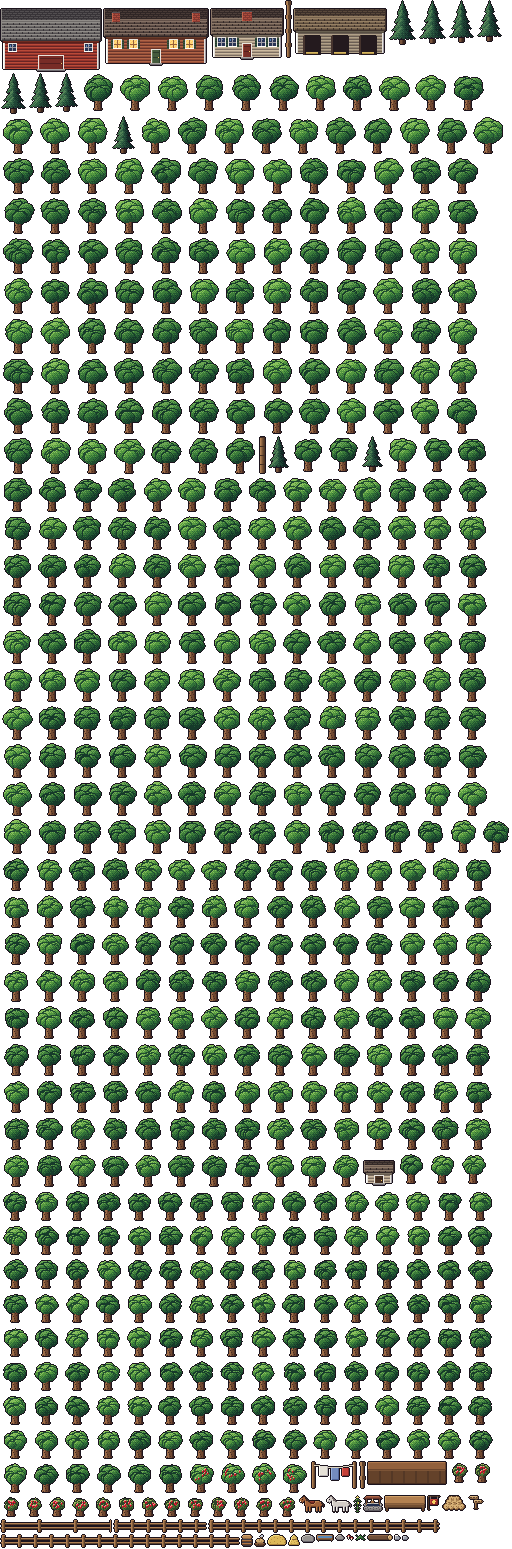
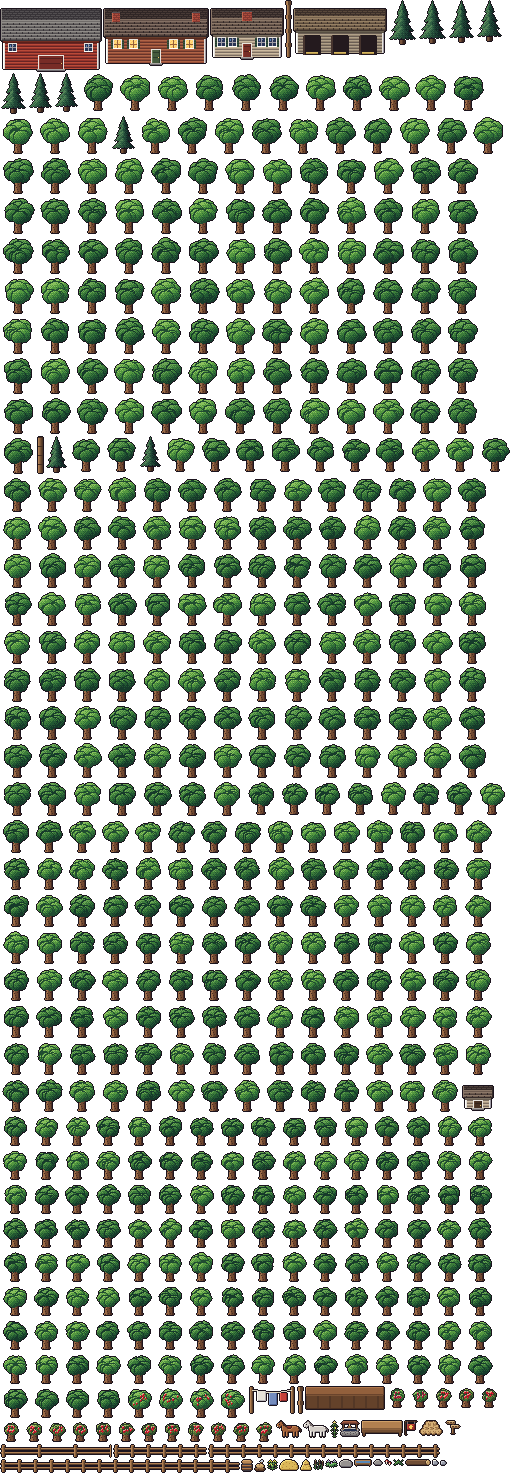
Add Heron Pond, the Liberty Tea quest and quest markers
- A narrow trail turns west off the middle of the wood path to Heron Pond,
  a clearing with cattails, wild mint, loosestrife and raspberry brambles.
  The pond uses its own random seed so the rest of the forest is unchanged.
- Once the wheat mystery is solved, Hannah asks for liberty tea herbs.
  Picking each herb adds a historical note; Jonah gives directions.
- A small gold "!" marks where a quest can be started: the wheat first,
  then Hannah after the wheat dialog is finished.

diff --git a/index.html b/index.html
@@ -154,6 +154,11 @@ canvas { display: block; width: 100%; height: 100%; image-rendering: pixelated; 
     pumpkins: { name: null, lines: [['Pumpkins and squash, fattening on the vine.']] },
     creek: { name: null, lines: [['The creek runs quick and cold over the stones.']] },
     log: { name: null, lines: [['A fallen oak, soft with moss. Something has been digging beneath it.']] },
+    pond: { name: null, lines: [['A still pond ringed with cattails. A heron lifts off the far bank and flaps away over the trees.'],
+      ['Dragonflies skim the lily pads. Something plops into the water by the reeds.']] },
+    herb_loosestrife: { name: null, lines: [['Slender stalks with leaves in fours, dotted with little yellow star flowers.']] },
+    herb_mint: { name: null, lines: [['Wild mint grows thick in the wet ground. It smells sharp and clean when you brush it.']] },
+    herb_raspberry: { name: null, lines: [['A raspberry bramble. The berries are long gone, but the leaves are thick and green.']] },
     signpost: { name: null, lines: [['West: Concord, 4 miles. East: the Boston road.']] },
     tavern_sign: { name: null, lines: [['THE PLOUGH & HARROW. A painted tankard swings from the bracket.']] },
     tavern_door: { name: null, lines: [] },
@@ -210,6 +215,12 @@ canvas { display: block; width: 100%; height: 100%; image-rendering: pixelated; 
     'widow:0': '"Meeting" meant Sunday worship at the meetinghouse. In New England the same building also hosted town meetings, where men voted on local affairs.',
     'widow:1': 'A "receipt" was the colonial word for a recipe.',
     'trapper:0': 'Beaver fur was prized in Europe for making felt hats. By the 1700s, trapping had made beaver scarce in much of New England.',
+    pond: 'Many ponds around Concord are "kettle ponds." They formed when big blocks of ice left behind by retreating glaciers melted in the ground. Walden Pond, about two miles south of Concord center, is the most famous.',
+    tea_boycott: 'After the Tea Act of 1773, many patriot households gave up imported tea. Boston women had already shown the way: in 1770 hundreds of them signed a pledge to drink no tea until Parliament\'s taxes were repealed.',
+    loosestrife: 'Four-leaved loosestrife, a native wildflower, gave its name to "liberty tea." Families dried the leaves and steeped them in place of the taxed tea from England.',
+    mint: 'Wild mint grows in damp ground across North America. Native peoples used it in medicines and teas, and colonists brewed it too, especially once drinking imported tea became unpatriotic.',
+    raspberry: 'Dried raspberry leaves made one of the most popular tea substitutes, and they had long been used as a home remedy.',
+    liberty_tea: 'The tea boycott gave women a central part in the resistance, since they ran the household and decided what was served. In October 1774 the Continental Congress went further, banning imports of British goods, tea included, from that December.',
     keeper: 'Taverns were the heart of colonial public life. Neighbors read newspapers aloud there, held meetings, and argued politics. Many revolutionary committees met over a mug of ale.',
   };
   const note = (text) => ['HISTORICAL NOTE', text, 'note'];
@@ -219,7 +230,7 @@ canvas { display: block; width: 100%; height: 100%; image-rendering: pixelated; 
     outdoor: [
       ['THE PLOUGH & HARROW', 140, 0, 262, 96], ['THE STABLE', 322, 0, 470, 96], ['THE CROSSROADS', 262, 70, 340, 120],
       ['THE FOOTBRIDGE', 276, 126, 318, 172], ['THE KITCHEN GARDEN', 58, 642, 160, 716], ['THE HOMESTEAD', 160, 626, 500, 762],
-      ['THE FIELDS', 30, 762, 470, 900], ['THE WOOD PATH', 120, 172, 440, 626],
+      ['THE FIELDS', 30, 762, 470, 900], ['HERON POND', 16, 346, 182, 462], ['THE WOOD PATH', 120, 172, 440, 626],
     ],
     tavern: [['THE PLOUGH & HARROW', 0, 0, 256, 192]],
   };
@@ -484,7 +495,7 @@ canvas { display: block; width: 100%; height: 100%; image-rendering: pixelated; 
     p: { x: 0, y: 0, dir: 'down', frame: 0, anim: 0, moving: false, seat: null },
     dog: { x: 0, y: 0, dir: 'down', frame: 0, anim: 0, waiting: null, stuck: 0 },
     trail: [], keys: new Set(), stick: null, chickens: [], puffs: [], smokeT: 0,
-    pence: 30, ale: 0, emptyMug: false, talkIdx: {}, quest: 0, holtNag: false,
+    pence: 30, ale: 0, emptyMug: false, talkIdx: {}, quest: 0, holtNag: false, tea: 0, herbs: [], jonahHint: false,
     dialog: null, fade: 0, fadeDir: 0, pending: null, target: null,
     region: '', toastT: 0, scale: 2, view: [320, 200], time: 0,
   };
@@ -528,6 +539,7 @@ canvas { display: block; width: 100%; height: 100%; image-rendering: pixelated; 
     S.map = st.map; S.p.x = st.x; S.p.y = st.y; S.p.dir = st.dir || 'down';
     if (snap && typeof snap.pence === 'number') { S.pence = snap.pence; S.ale = snap.ale || 0; }
     setQuest((snap && snap.quest) || 0, false);
+    if (snap && snap.tea) { S.herbs = snap.herbs || []; setTea(snap.tea, false); }
     S.dog.x = S.p.x + 14; S.dog.y = S.p.y + 2;
     if (S.map !== 'outdoor') { const d = S.maps.tavern.doors[0].spawn; S.dog.waiting = [d[0] + 14, d[1] + 4]; S.dog.x = S.dog.waiting[0]; S.dog.y = S.dog.waiting[1]; }
     const snd = W.maps.outdoor.sound;
@@ -681,7 +693,9 @@ canvas { display: block; width: 100%; height: 100%; image-rendering: pixelated; 
     for (const a of m.acts) {
       if (inR(q, a.r)) {
         if (a.id === 'tavern_door') continue;
-        return { kind: 'act', id: a.id, label: a.label, ax: (a.r[0] + a.r[2]) / 2, ay: a.r[1] - 4 };
+        const herb = a.id.startsWith('herb_') && a.id.slice(5);
+        const label = herb && (S.tea !== 1 || S.herbs.includes(herb)) ? 'LOOK' : a.label;
+        return { kind: 'act', id: a.id, label, ax: (a.r[0] + a.r[2]) / 2, ay: a.r[1] - 4 };
       }
     }
     return null;
@@ -706,16 +720,52 @@ canvas { display: block; width: 100%; height: 100%; image-rendering: pixelated; 
     'Ezra blames the barberry hedge. Go home and tell Hannah.',
     'The barberry hedge comes out before spring planting.',
   ];
+  // The task box shows one task at a time; a finished task fades out after a few seconds.
+  function showTask(text, done, announce) {
+    const q = $('quest');
+    if (!text) { q.hidden = true; return; }
+    q.hidden = false; q.classList.remove('fade');
+    $('qlabel').textContent = done ? 'TASK COMPLETE' : 'TASK';
+    $('qtext').textContent = text;
+    if (announce) toast(announce);
+    clearTimeout(showTask.t);
+    if (done) showTask.t = setTimeout(() => q.classList.add('fade'), 7000);
+  }
   function setQuest(stage, announce = true) {
     S.quest = stage;
-    const q = $('quest');
-    if (!QUEST[stage]) { q.hidden = true; return; }
-    q.hidden = false; q.classList.remove('fade');
-    $('qlabel').textContent = stage === 3 ? 'TASK COMPLETE' : 'TASK';
-    $('qtext').textContent = QUEST[stage];
-    if (announce) toast(stage === 3 ? 'TASK COMPLETE' : 'NEW TASK');
-    clearTimeout(setQuest.t);
-    if (stage === 3) setQuest.t = setTimeout(() => q.classList.add('fade'), 7000);
+    showTask(QUEST[stage], stage === 3, announce && (stage === 3 ? 'TASK COMPLETE' : 'NEW TASK'));
+  }
+  // ------------------------------------------------------------------ liberty tea
+  // Stage 0: not offered (Hannah offers it once the wheat mystery is solved). 1: gather the three herbs at Heron Pond.
+  // 2: all gathered, take them home. 3: Hannah has her tea, task done.
+  const HERBS = { loosestrife: 'loosestrife', mint: 'wild mint', raspberry: 'raspberry leaves' };
+  function teaTask() {
+    if (S.tea === 1) {
+      const left = Object.keys(HERBS).filter((k) => !S.herbs.includes(k)).map((k) => HERBS[k]);
+      return 'Gather ' + left.join(', ').replace(/, ([^,]*)$/, ' and $1') + ' at Heron Pond, west off the wood path. (' + S.herbs.length + '/3)';
+    }
+    return [null, null, 'Bring the herbs home to Hannah.', 'Hannah has her liberty tea for Thursday.'][S.tea];
+  }
+  function setTea(stage, announce = true) {
+    S.tea = stage;
+    showTask(teaTask(), stage === 3, announce && (stage === 3 ? 'TASK COMPLETE' : 'NEW TASK'));
+  }
+  function pickHerb(kind, lines) {
+    if (S.tea !== 1 || S.herbs.includes(kind)) return null;
+    return { lines, then: () => {
+      S.herbs.push(kind);
+      AUD.play('step', 'grass');
+      if (S.herbs.length === 3) setTea(2);
+      else showTask(teaTask(), false, HERBS[kind].toUpperCase() + ' ' + S.herbs.length + '/3');
+    } };
+  }
+  function questStarts() {
+    // Where a "!" marks something the player can start a task from.
+    const out = [];
+    if (S.map !== 'outdoor') return out;
+    if (S.quest === 0) { const a = M().acts.find((q) => q.id === 'wheat'); if (a) out.push({ id: 'wheat', x: a.r[0] + 34, y: a.r[1] + 18 }); }
+    if (S.quest === 3 && S.tea === 0) { const n = M().npcs.find((q) => q.id === 'wife'); if (n) out.push({ id: 'wife', x: n.x, y: n.y - 28 }); }
+    return out;
   }
   const SPECIAL = {
     wheat() {
@@ -742,7 +792,41 @@ canvas { display: block; width: 100%; height: 100%; image-rendering: pixelated; 
           ['HANNAH', 'My barberry? I make my jelly from those berries!'],
           ['HANNAH', '...Well. I\'d sooner have bread than jelly. If it must come out, it must.']], then: () => setQuest(3) };
       }
+      if (S.tea === 0) {
+        return { lines: [['HANNAH', 'Now, there\'s another thing. Widow Abbot and the Fletcher women are coming to sit with me Thursday.'],
+          ['HANNAH', 'And I\'ll not pour the King\'s tea in this house. Not while Boston harbor is shut and his soldiers stand on every corner.'],
+          ['YOU', 'Then what will you pour?'],
+          ['HANNAH', 'Liberty tea. For that I need loosestrife, wild mint and raspberry leaves.'],
+          ['HANNAH', 'Jonah says all three grow round Heron Pond. Halfway along the wood path, a little trail turns west through the trees.'],
+          note(NOTES.tea_boycott)], then: () => setTea(1) };
+      }
+      if (S.tea === 1) {
+        return { lines: [['HANNAH', S.herbs.length ? 'That\'s a start. I still want ' + teaTask().replace(/^Gather (.*) at Heron.*$/, '$1') + '.'
+          : 'Loosestrife, wild mint and raspberry leaves. Take the little trail west, halfway along the wood path.']] };
+      }
+      if (S.tea === 2) {
+        return { lines: [['HANNAH', 'Loosestrife, mint and raspberry! Let me smell. Oh, that will do very nicely.'],
+          [null, 'Hannah ties the herbs into bundles and hangs them from the beam by the hearth to dry.'],
+          ['HANNAH', 'Let the Tories in Boston keep their Bohea. Ours will be home-grown, and I\'ll say so to anyone who asks.'],
+          note(NOTES.liberty_tea)], then: () => setTea(3) };
+      }
       return null;
+    },
+    herb_loosestrife() {
+      return pickHerb('loosestrife', [[null, 'You snap off a good bundle of loosestrife stalks, leaves and little yellow flowers and all.'], note(NOTES.loosestrife)]);
+    },
+    herb_mint() {
+      return pickHerb('mint', [[null, 'You kneel in the soft mud and pick a fistful of wild mint. Your fingers smell of it for an hour.'], note(NOTES.mint)]);
+    },
+    herb_raspberry() {
+      return pickHerb('raspberry', [[null, 'You reach carefully past the thorns and strip a handful of raspberry leaves. Only one scratch.'], note(NOTES.raspberry)]);
+    },
+    trapper() {
+      if (S.tea !== 1 || S.jonahHint) return null;
+      S.jonahHint = true;
+      return { lines: [['YOU', 'Jonah, Hannah\'s sent me for tea herbs. Loosestrife, mint and raspberry. She says you know Heron Pond.'],
+        ['JONAH, A TRAPPER', 'Heron Pond? West off the wood path, about halfway. Mint grows thick in the mud on the south side.'],
+        ['JONAH, A TRAPPER', 'Raspberry canes at the west edge of the clearing. Mind the thorns.']] };
     },
     holt() {
       if (S.quest === 1) {
@@ -1083,6 +1167,17 @@ canvas { display: block; width: 100%; height: 100%; image-rendering: pixelated; 
       ctx.fillStyle = g; ctx.fillRect(0, 0, m.w, m.h);
       ctx.globalCompositeOperation = 'source-over';
     }
+    // "!" over things that start a task, unless the target arrow is already there
+    if (!S.dialog) {
+      const tid = S.target && (S.target.id || S.target.npc?.id);
+      for (const q of questStarts()) {
+        if (q.id === tid) continue;
+        const x = Math.round(q.x), y = Math.round(q.y) - (Math.floor(S.time * 3) % 2);
+        ctx.fillStyle = '#1c141e'; ctx.fillRect(x - 2, y - 9, 5, 7); ctx.fillRect(x - 2, y - 1, 5, 4);
+        ctx.fillStyle = '#f4cc5c'; ctx.fillRect(x - 1, y - 8, 3, 5); ctx.fillRect(x - 1, y, 3, 2);
+        ctx.fillStyle = '#fff4c8'; ctx.fillRect(x - 1, y - 8, 1, 3);
+      }
+    }
     // target marker
     if (S.target && !S.dialog) {
       const t = S.target, bob = Math.floor(S.time * 4) % 2;
@@ -1104,7 +1199,7 @@ canvas { display: block; width: 100%; height: 100%; image-rendering: pixelated; 
     load(snap || {}).catch((e) => { const el = $('err'); el.hidden = false; el.textContent = e.message + '. Reload the page to try again.'; });
     requestAnimationFrame(loop);
   }
-  window.claude?.hot?.snapshot?.(() => ({ map: S.map, x: S.p.x, y: S.p.y, dir: S.p.dir, pence: S.pence, ale: S.ale, quest: S.quest }));
+  window.claude?.hot?.snapshot?.(() => ({ map: S.map, x: S.p.x, y: S.p.y, dir: S.p.dir, pence: S.pence, ale: S.ale, quest: S.quest, tea: S.tea, herbs: S.herbs }));
   window.claude?.hot?.ready ? window.claude.hot.ready(start) : start(window.claude?.hot?.data ?? {});
 })();
 </script>

diff --git a/tools/game_world.py b/tools/game_world.py
@@ -42,8 +42,8 @@ class World:
     def act(self, r, id_, label):
         self.acts.append({'r': [int(v) for v in r], 'id': id_, 'label': label})
 
-    def tree(self, bx, by, R=None, kind=None, tones=TG, pine=False):
-        """Place a tree so its trunk base sits at (bx, by)."""
+    def tree(self, bx, by, R=None, kind=None, tones=TG, pine=False, skip=False):
+        """Place a tree so its trunk base sits at (bx, by). skip=True still draws from the rng, so later trees don't move."""
         rng = self.rng
         if pine:
             t = make_pine(int(R or 34), PINE, rng)
@@ -51,11 +51,51 @@ class World:
             t = make_tree(int(R or 12), tones, rng,
                           fruit=((220, 48, 48), (150, 24, 36)) if kind == 'a' else None,
                           blossoms=[(255, 236, 244), (248, 184, 212)] if kind == 'b' else None)
+        if skip:
+            return t
         h, w = t.shape[:2]
         x, y = int(bx - w / 2), int(by - h + 3)
         self.sc.foot_shadow(bx + 2, by, w * 0.4, 3)
         self.add(t, x, y, box=(w // 2 - 5, h - 9, w // 2 + 5, h - 2))
         return t
+
+
+# ============================================================ HERON POND
+# The three Liberty Tea herbs grow in clumps around the pond, each on its own side, so the player walks all the way round.
+HERBS = {
+    'loosestrife': [(118, 372), (134, 378), (88, 371)],  # north bank, in the sun
+    'mint': [(98, 437), (112, 434), (78, 436)],  # the wet south edge
+    'raspberry': [(46, 372), (32, 388)],  # brambles at the west edge of the clearing
+}
+
+
+def pond_dressing(wd, pond, meadow, trail):
+    rng = np.random.default_rng(1773 * 2)
+    sc = wd.sc
+    sprites = {'mint': S2.mint(), 'loosestrife': S2.loosestrife()}
+    for kind, spots in HERBS.items():
+        for (x, y) in spots:
+            if kind == 'raspberry':
+                spr = S2.bush(rng, tones=((40, 84, 44), (64, 124, 56), (100, 160, 72), (150, 200, 104)),
+                              berries=((200, 40, 72), (140, 24, 52)))
+                h, w = spr.shape[:2]
+                sc.foot_shadow(x + 1, y, w * 0.4, 2.5)
+                wd.add(spr, x - w // 2, y - h + 3, box=(3, h - 8, w - 3, h - 1))
+                wd.act([x - w // 2 - 2, y - h + 2, x + w // 2 + 2, y + 6], 'herb_raspberry', 'PICK')
+            else:
+                spr = sprites[kind]
+                h, w = spr.shape[:2]
+                wd.add(spr, x - w // 2, y - h, box=None)
+                wd.act([x - w // 2 - 3, y - h - 2, x + w // 2 + 3, y + 5], 'herb_' + kind, 'PICK')
+    ct = S2.cattails()
+    for (x, y) in ((52, 410), (140, 404), (60, 424), (146, 392)):
+        wd.add(ct, x - ct.shape[1] // 2, y - ct.shape[0], box=None)
+    for (x, y) in ((150, 418), (64, 386)):
+        wd.add(P.rock(1), x - 5, y - 4, box=(1, 2, 10, 7))
+    wd.add(S2.log(), 62, 446, box=(0, 1, 26, 7))
+    # one look over the whole pond, added after the herbs so their acts win
+    ys, xs = np.nonzero(pond)
+    wd.act([xs.min() - 2, ys.min() - 2, xs.max() + 3, ys.max() + 3], 'pond', 'LOOK')
 
 
 # ============================================================ OUTDOORS
@@ -128,6 +168,32 @@ def outdoor():
     for (x, y) in ((292, 300), (275, 470), (300, 246)):
         wd.act([x - 14, y - 14, x + 14, y + 14], 'creek', 'LOOK')
 
+    # ---- HERON POND: a narrow trail west from the middle of the wood path to a pond in a sunny clearing.
+    # It has its own rng so everything drawn after it comes out exactly as before.
+    prng = np.random.default_rng(1773)
+    meadow = ellipse(sc.shape, 98, 402, 80, 54)
+    lift = meadow & forest_floor
+    sc.img[lift & (B > 0.35)] /= np.array([0.78, 0.82, 0.80])
+    sc.img[meadow & ~erode(meadow, 6) & (B > 0.5) & lift] *= np.array([0.9, 0.92, 0.9])
+    trail = thick_path(sc.shape, [(256, 397), (234, 392), (208, 400), (184, 395), (160, 401), (146, 404)], 4, prng, wob=0.6)
+    trail &= ~path
+    dirt(sc, trail, DF, prng, lip=G[0], pebbles=40)
+    pond = ellipse(sc.shape, 100, 404, 44, 24) | ellipse(sc.shape, 72, 414, 22, 14) | ellipse(sc.shape, 126, 396, 20, 13)
+    water(sc, pond, Wt, prng, bank=((104, 88, 60), (150, 128, 86)))
+    for (x, y) in ((82, 404), (118, 412), (94, 418), (110, 392)):  # lily pads
+        pad = ellipse(sc.shape, x, y, 3.5, 2.2)
+        sc.img[dilate(pad, 1) & ~pad & pond] = (24, 52, 50)
+        sc.img[pad] = (72, 140, 72)
+        sc.put(x - 1, y - 1, (120, 180, 96))
+        sc.put(x + 1, y, (24, 52, 50))
+    sc.put(94, 417, (248, 240, 248)); sc.put(95, 417, (240, 200, 220))  # a water lily
+    wd.block |= pond
+    # no tree trunks in the clearing or beside the trail, nor just south of them, where canopies would hide the ground
+    pond_room = meadow | dilate(trail, 10)
+    for k in range(1, 22):
+        pond_room[k:] |= (meadow | dilate(trail, 6))[:-k]
+    trail_wide = dilate(trail, 3)
+
     # ---- forest trees (avoid clearings, path, creek)
     corridor = dilate(path | road, 11) | dilate(creek, 8) | dilate(tyard | yard, 6)
     for (x0, y0, x1, y1) in ((48, 440 + DY, 170, 530 + DY), (200, 440 + DY, 500, 530 + DY), (440, 480 + DY, 500, 560 + DY)):
@@ -142,18 +208,22 @@ def outdoor():
                 continue
             pts.append((x, y))
     for (x, y) in pts:
+        gone = pond_room[min(max(y, 0), H_ - 1), min(max(x, 0), W_ - 1)]
         if rng.random() < 0.3:
-            wd.tree(x, y, 34 + int(rng.integers(-4, 6)), pine=True)
+            wd.tree(x, y, 34 + int(rng.integers(-4, 6)), pine=True, skip=gone)
         else:
-            wd.tree(x, y, int(rng.integers(11, 15)), tones=TD if rng.random() < 0.6 else TG)
+            wd.tree(x, y, int(rng.integers(11, 15)), tones=TD if rng.random() < 0.6 else TG, skip=gone)
     fern = S2.fern()
     mush = S2.mushrooms()
     near = (dilate(path, 14) | dilate(creek, 12)) & ~dilate(path, 8) & ~clear & ~dilate(creek, 4)
     ys, xs = np.nonzero(near)
     for i in rng.choice(len(ys), 70, replace=False):
         x, y = xs[i], ys[i]
+        if trail_wide[y, x]:
+            continue
         spr = fern if i % 3 else mush
         wd.add(spr, x - spr.shape[1] // 2, y - spr.shape[0], box=None)
+    pond_dressing(wd, pond, meadow, trail)
     wd.add(S2.log(), 196, 300, box=(0, 1, 26, 7))
     wd.add(S2.log(), 200, 484, box=(0, 1, 26, 7))
     for (x, y) in ((214, 244), (204, 420), (204, 566), (322, 270), (318, 420)):

diff --git a/tools/sprites2.py b/tools/sprites2.py
@@ -362,3 +362,46 @@ def bush(rng, tones=((32, 76, 48), (48, 112, 56), (84, 152, 64), (136, 192, 92))
     # chop the trunk: keep only canopy rows
     a = t[..., 3] > 0
     return t
+
+
+# ---------------------------------------------------------------- pond plants (the Liberty Tea herbs)
+def mint():
+    return rs([
+        "..p.....p..",
+        ".pMp...pMp.",
+        "..M..p..M..",
+        "MMMM.pMMMMM",
+        ".MMMMMMMMM.",
+        "MM.MMMMM.MM",
+        "...M.M.M...",
+    ], {'M': ((132, 196, 104), (88, 160, 84), (52, 112, 64)), 'p': ((204, 176, 236),)})
+
+
+def loosestrife():
+    return rs([
+        "..y...y..",
+        ".yLy.yLy.",
+        "LL.L.L.LL",
+        "..LLLLL..",
+        ".yLy.L.y.",
+        "LL.LLL.LL",
+        "...LLL...",
+        "LL..L..LL",
+        "..LLLLL..",
+        "....L....",
+    ], {'L': ((150, 196, 96), (100, 156, 72), (60, 108, 56)), 'y': ((255, 222, 72),)})
+
+
+def cattails():
+    return rs([
+        ".c...c...",
+        ".C...C..c",
+        ".C..lC..C",
+        ".C.l.C..C",
+        "lCl..Cl.C",
+        ".l...l.lC",
+        ".l..l..l.",
+        "ll..l.ll.",
+        ".l.ll..l.",
+    ], {'C': ((150, 100, 64), (118, 76, 50), (84, 54, 40)), 'c': ((176, 160, 112),),
+        'l': ((132, 176, 92), (92, 140, 72), (56, 100, 58))})

diff --git a/README.md b/README.md
@@ -26,9 +26,12 @@ Then open <http://localhost:8000>.
 
 - **The homestead:** farmhouse, barn, coop, well, kitchen garden, and fields of Indian corn, wheat, flax and pumpkins. Hannah, your wife, is in the garden. Ranger, your dog, follows you everywhere.
 - **The forest path:** a long walk through the woods beside a creek, which bends west under a footbridge as you leave the forest.
+- **Heron Pond:** halfway along the forest path, a narrow trail turns west through the trees to a pond in a sunny clearing, ringed with cattails, wild mint, loosestrife and raspberry brambles.
 - **The crossroads:** the Plough & Harrow tavern, with smoking chimneys, a stable with horses, and a signpost.
 - **Inside the tavern:** order an ale from Mr. Hale, sit with the neighbors, and listen to the gossip.
 - **The wheat mystery:** the first quest, about wheat rust and the barberry hedge.
+- **Liberty tea:** once the wheat mystery is solved, Hannah asks you to gather herbs at Heron Pond for a tea that boycotts the King's.
+- **Quest markers:** a small gold "!" marks where a quest can be started: first the wheat, then Hannah once the wheat mystery is done.
 - **Historical notes:** looking at things, and some conversations, add a short note about colonial life.
 - **Sound:** all synthesized in the browser with the Web Audio API: the creek, birds, wind in the forest, chickens, the ox, the tavern fire and chatter, and footsteps.
 
@@ -55,7 +58,8 @@ All dialogue lives near the top of the script in `index.html`:
 
 - `TALK` holds what each person says and the descriptions of things you can look at.
 - `NOTES` holds the historical notes.
-- `SPECIAL` and `QUEST` hold the wheat mystery quest.
+- `SPECIAL` and `QUEST` hold the wheat mystery quest. `SPECIAL` also holds the liberty tea quest, with `HERBS`, `teaTask` and `setTea` next to it.
+- `questStarts` decides where the "!" markers appear.
 
 ## Rebuilding the art
 
@@ -71,4 +75,4 @@ This rewrites everything in `world/` and saves map previews to `build/previews/`
 
 - `pix.py`: drawing helpers (auto-shaded sprites from region art, trees, buildings, grass, dirt and water)
 - `chars.py`, `sprites2.py`, `props.py`: characters, animals and props as hand-typed pixel art
-- `game_world.py`: lays out the outdoor map and the tavern interior
+- `game_world.py`: lays out the outdoor map and the tavern interior. Heron Pond and its trail use their own random seed, so changing them doesn't move the rest of the forest.
